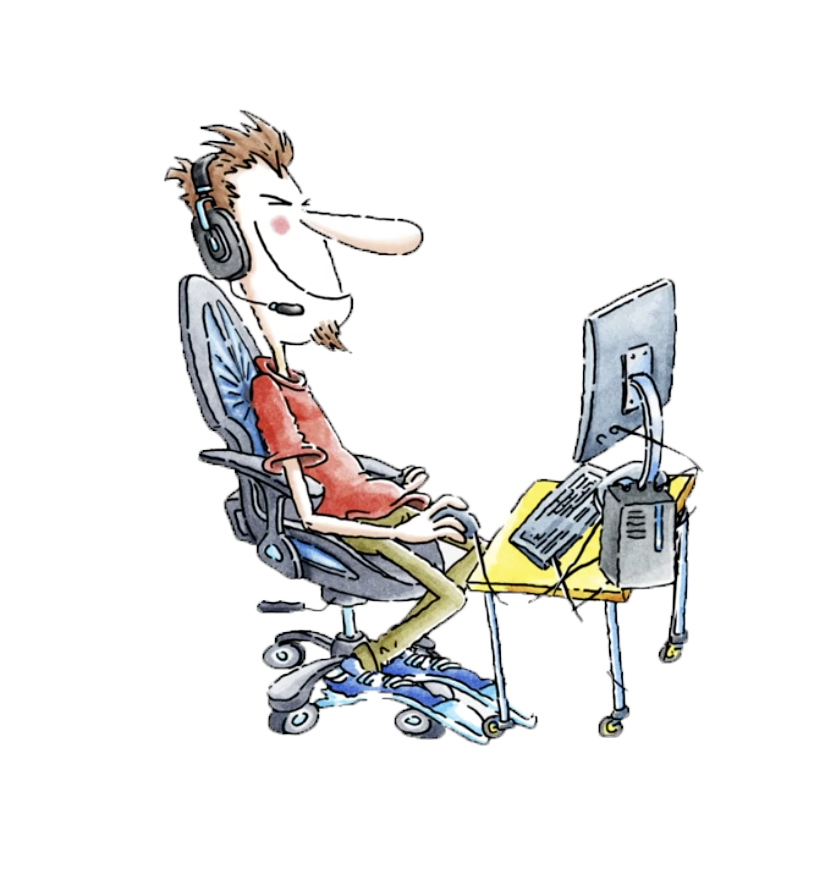
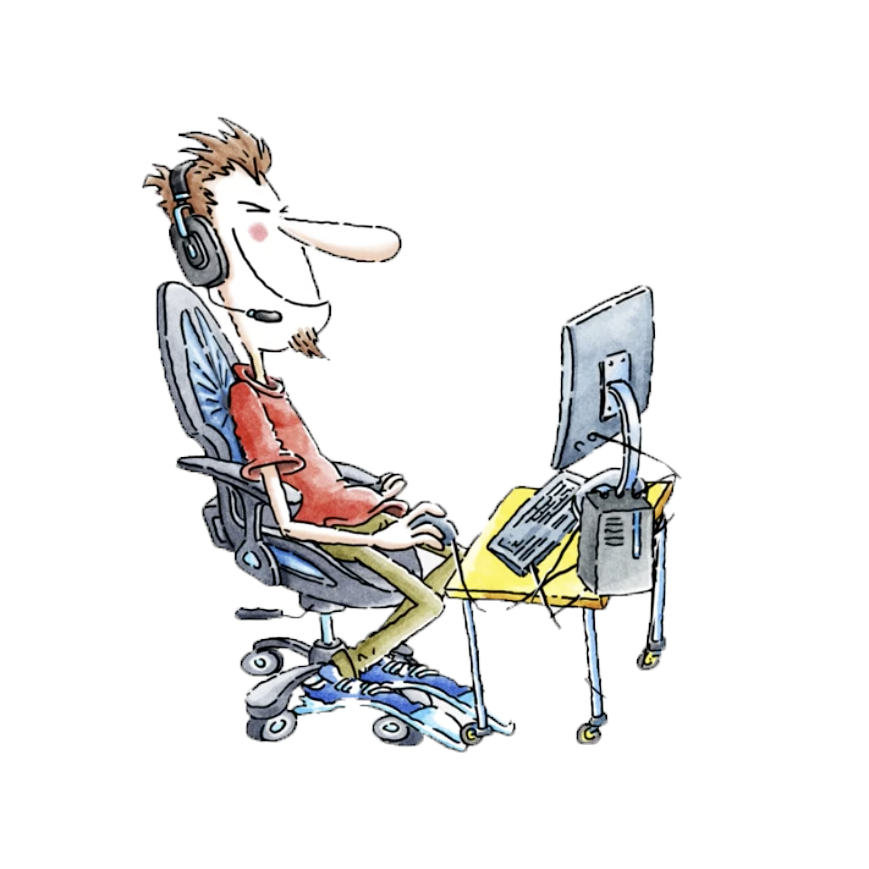
made all dashboard pics appear similiaryl in the center

Changed region(s): [[0.151, 0.1243, 0.8454, 0.87]]

diff --git a/app/assets/stylesheets/components/_cards-new.scss b/app/assets/stylesheets/components/_cards-new.scss
@@ -98,7 +98,7 @@ body{
 .card img {
     position: absolute;
     top: 3%;
-    left: 23%;
+    left: 27%;
     width: 47%;
     transition:
     filter 200ms linear,
@@ -159,6 +159,7 @@ body{
 .card__content{
   left: 0;
   // padding: var(--spacing-l);
+  padding-top: 10px;
   position: absolute;
   top: 56%;
   width:100%;
